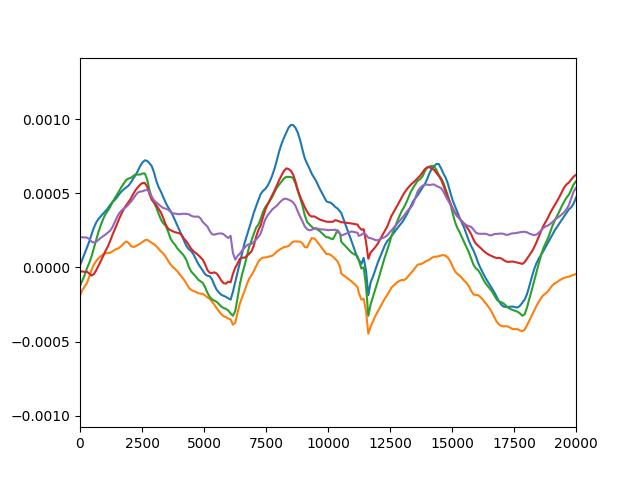
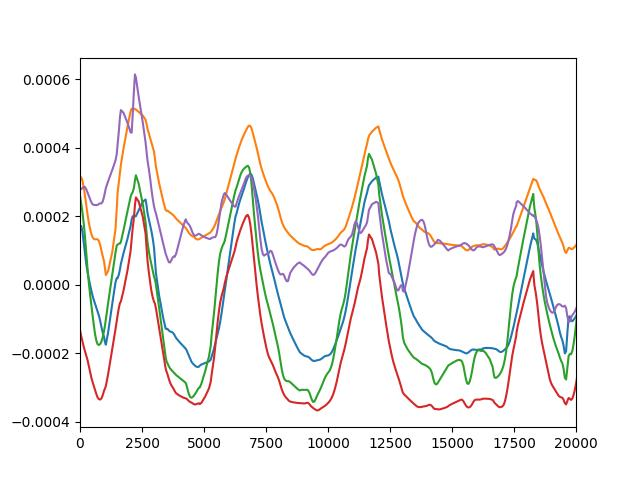
Fix save confirmation text and update image
Correct the save confirmation prompt typo

diff --git a/main.py b/main.py
@@ -140,7 +140,7 @@ class MainWindow(QWidget):
             reply = QMessageBox.question(
                 self,
                 "Confirm Action",
-                "Do you wat to save the model?",
+                "Do you want to save the model?",
                 QMessageBox.StandardButton.Yes | QMessageBox.StandardButton.No
             )
             if reply == QMessageBox.StandardButton.Yes:
